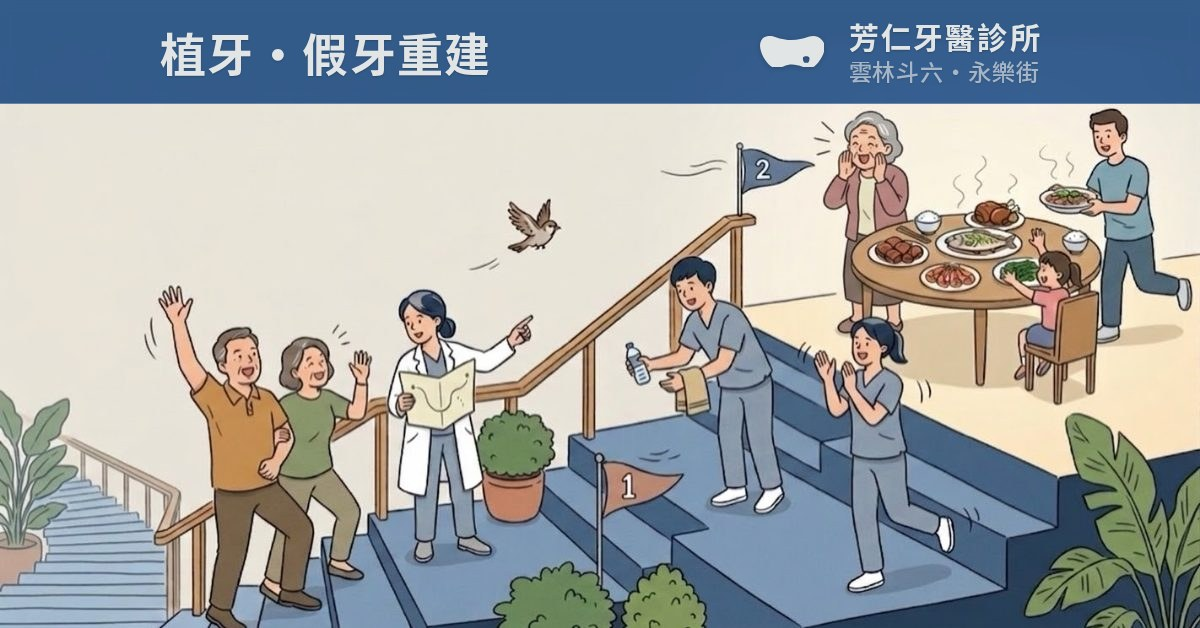
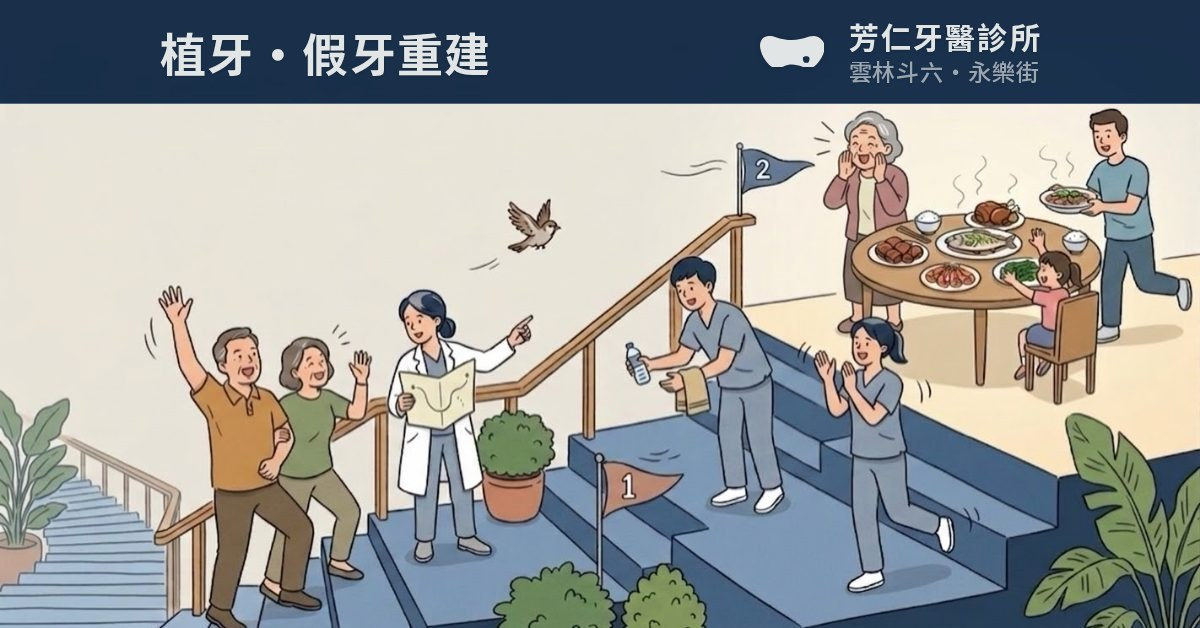
植牙分享圖定案：帶子用深階 #182f4b（不新增顏色、對矯正 ΔE 35.2）；提案頁刪除、推導寫進 /history/prosth-band.html

Changed region(s): [[0.0, 0.0, 1.0, 0.1815]]

diff --git a/history/index.html b/history/index.html
@@ -136,6 +136,7 @@
   <li><a href="/history/perio-laser.html">perio-laser</a><span>〔文章草稿的預覽，不是設計提案〕 - `preview/perio-laser/` — 牙周病治療（清創／水雷射／再生手術）那一篇的文案與 HERO，六輪定案後直接變成正式文章 /posts/perio-laser/（2026-08-16）。文案從別處寫好的原稿整理成站上的樣子：拿掉診所名稱、預約專線、地址與作者備註，齒槽骨與牙根整平術對齊既有用詞，比較表裡「殺菌率高」「大幅減少疼痛」這類絕對療效說法收斂過。圖是「醫師與病人一起拿雷射槍打細菌」，六輪修的都是可讀性：光束改牙周青綠、槍從火箭筒改成精密手機、細菌從「太可愛」到「太兇」再到「兵敗逃竄」、病患退到最後方由助理的盾護著；⚠ 第四輪查出「雷射打在牙齒上像要打破牙齒」的成因是牙面上根本沒有髒東西可打 —— 要它打什麼就要先把那個東西畫出來。⚠ 機器上一直長出 BIOLASE／Waterlase 的品牌字（brochure 當參考時連字一起學走），做過一次局部模糊、最後改用重生成的乾淨版…</span></li>
   <li><a href="/history/night-calibrated.html">night-calibrated</a><span>〔CLAUDE.md〕 - `preview/night-calibrated/` — 全暗版（2026-08-04），內文區也是暗的。留著對照用。 〔PALETTE.md〕 - 對應的預覽頁…</span></li>
   <li><a href="/history/og-home.html">og-home</a><span>〔CLAUDE.md／ILLUSTRATION.md〕 - `preview/og-home/` — 分享 fangren.net 時對方看到的那張卡，當天開、當天定案上線（2026-08-22），成品是 assets/og-home.jpg（產圖 tools/og-home.mjs 留在版控裡）。起因是使用者拿 LINE 的截圖回報「分享首頁時的圖片……顯示的文字內容也不是現在上面的文字」。⚠ 先查清楚：那張卡不是舊的也不是快取，逐字就是 index.html 當時宣告的 og:*。⚠⚠ 我一開始講錯的一件：**LINE 沒有裁圖** —— 從截圖直接量（635×426 ＝ 1.491:1，和原檔 1.512:1 一樣），它照原比例顯示，所以 1.51:1 的圖會長成一張又高又暗的卡；順帶量到卡片實際只有 **212 CSS px** 寬。現況那張平均 L* 21.3、幾乎全黑 48.0%、邊緣密度 16.9%，比 ILLUSTRATION.md 第十一節那張「像鬼屋欸」的失敗版（19.3%）還低。⚠⚠ 走了三輪冤枉路：三格壓在騎樓入口上，使用者建議「把裁切改到寬和現況之間」，但量出來**拉寬反而更糟**（框下緣固定時，騎樓下緣到框下緣在原檔是定值，框愈寬比例尺愈小、那段距離在畫面上就愈短），怎麼裁都還是壓到門面。正解是使用者點出來的：「我為了不要壓到門面，甚至在圖片下另外加深色橫帶」—— 站上 iPad 直放與手機版早就是那樣做的。⚠ 第一版照抄成「照片縮短」被退回（比例從 1.91 變 2.4，屋頂被切），改成**照片維持 1.91 的裁法、帶子疊在下緣蓋掉路面**。⚠ 帶子上緣要淡進來（前 42% smoothstep）—— 站上那條窄帶不必淡入是因為它上面本來就是暗的路面，這張圖的帶子正上方是亮著的騎樓。⚠ 三格的字、字重、字距、分隔線全部在 1200 寬的視窗上量回來（1× 產出 603px vs 站上 603.375px）。文字定案只留詩的第四句，地名移到圖上不再重複。⚠⚠ 同一輪查出一個**已經上線**的缺字 bug：字型子集缺字會靜靜換一種字體（沒有後備就撿系統字），前一天上線的科別分享卡「雲林斗六・永樂街」其實是文泉驛…</span></li>
+  <li><a href="/history/prosth-band.html">prosth-band</a><span>〔CLAUDE.md／ILLUSTRATION.md〕 - `preview/prosth-band/` — 植牙・假牙重建那張分享卡的帶子要多深，當天開、當天定案上線（2026-08-25）。起因是使用者：「我擔心這個帶子顏色和矯正撞到。把矯正定稿叫出來，然後把假牙重建這個做成切換讓我選，要比矯正深的效果。」他的擔心數字上成立，而且文件裡早就記著 —— CLAUDE.md 第九節第 7 條寫著「全站最近的一對是矯正 × 贋復 ΔE 13.3」，這一輪量到套色版對矯正正好是 ΔE 13.7。四格（都是真的產出檔）：Ⓐ 套色 #335b8b（ΔE 13.7・紙色字 5.54）／Ⓑ #2a4c76（20.3・6.93）／Ⓒ #213e60（28.1・8.66）／Ⓓ 深階 #182f4b（35.2・10.70）。⚠⚠ 定案 Ⓓ 的關鍵不是深淺而是**顏色的來源**：Ⓑ／Ⓒ 是內插出來的新色、站上不存在，PALETTE.md 的規則是顏色一律從既有的階拿，所以真正能選的只有 Ⓐ（套色）與 Ⓓ（深階）；兒童牙科 2026-08-24 也是「套色撐不住 → 退深階」，做法一致。順帶定案兩件：**圖往下移 45px**（新工具 drafts/og-shift.mjs，位移是被兩端夾出來的 —— 頭不能被帶子壓到 D ≥ 43、左下三人的鞋不能被切 D ≤ 47），以及 og:description 換成那一頁的 close（34 字，實測剛好兩行不截斷）。⚠ 量鞋子不能用「亮度<80 找最低的墨」—— 階梯的立面就是深藍，整條底邊都會命中；要用顏色分（鞋與褲是暖色的深 R > B+18）…</span></li>
   <li><a href="/history/og-topic-card.html">og-topic-card</a><span>〔CLAUDE.md／ILLUSTRATION.md〕 - `preview/og-topic-card/` — 科別著陸頁分享圖（og:image）的玻璃濃度與地名排法，當天開、當天定案上線（2026-08-22），成品是 assets/og-topic-general.jpg。分享卡在訊息 app 裡只有 250px、標誌單獨出現認不出是誰，所以識別燒進圖裡（卡片標題拿不掉，三家 app 都會顯示）。⚠ 第一版的實心色牌被退回：「忽略了一個很重要的要素 —— 不搶戲、和諧，這也是診所品牌的核心概念之一」，改成頂部的玻璃帶。⚠⚠ 玻璃要用**深階不是套色**、底下還要墊一層墨，這是量出來的（套色 .34 最亮處只有 1.74，白字幾乎看不見）；「最亮處」＝ 天空從玻璃後面透上來那一段，要單獨量，而且只能取兩段文字中間那塊沒有字的玻璃，否則會把紙色的字算進背景裡。淡／中／濃三格是兩個相反的要求在拔河（對比 5.01／5.90／6.83 vs 照片還剩 24%／16%／10%），使用者選**中** —— 最亮處 4.40 過不了 4.5 是他看過數字之後的取捨，不是漏看，因為濃只剩 10% 的照片、已經接近他退回的那塊實心板。地名四格定案「兩行＋街名」。⚠⚠ 最貴的一課：說「照首頁那樣做」的時候要**去把首頁量一次** —— 手機版那一套第一版四項全錯而且錯的都是比例（標誌小 18%、間距只有一半、主名沒加粗、字距 .06 vs .01em），是使用者拿他手機的截圖對照才發現的。⚠ 兩行的排法只有帶街名才成立：地名 8 個字 × 0.774 剛好等於診所名 6 個字，兩行天然等長 justify 才幾乎沒事做；只寫「雲林斗六」四個字要撐 1.366em ＝ 首頁的十八倍，會變成四個孤字。⚠ 提案頁擺的是十二張**真的產出檔**不是用 CSS 重做一次玻璃帶 —— 真實的訊息卡是點陣圖縮下來的，CSS 縮放的向量文字會比實際清楚，等於在騙自己…</span></li>
   <li><a href="/history/ortho-article.html">ortho-article</a><span>〔文章草稿的預覽，不是設計提案〕 - `preview/ortho-article/` — 〈牙齒矯正：年齡、矯正器與第一次諮詢〉那一篇的文案與 HERO，當天開、當天定案上線（2026-08-19），成品是 /posts/orthodontics/（齒顎矯正，站上第九篇）。起點是使用者把診所臉書那則矯正貼文整則貼進來要求「整理成適合網站的文章內容」：emoji／hashtag／私訊 CTA 整組拿掉，✅🔹🔸 的條列換成站上既有的結構，「完美的治療」「最安全且有效」「成功完成矯正夢想」三句承諾性的話拿掉（COPY.md 第三節那道紅線），跨科那一段改寫成主詞是病患的具體好處。臉書原文的事實一件都沒刪。這一篇同時補上齒顎矯正的內部連結 —— 改動前那一科站上零篇文章，是七顆標記裡唯一點下去沒有文章的。⚠ 兩件提出來由使用者定案維持原樣的：金屬 2~3 年／隱形 3~4 年（方向和一般認知相反，照臉書原文留著）、以及 HERO 右下那一格 —— 他睡著了、床頭櫃上放著闔上的牙套盒，讀起來是「睡前取下」，而內文正好寫著「取下的時間裡牙齒不會移動」，是取捨不是漏看。⚠ 圖是另一台畫的（六條規格在 ILLUSTRATION.md 第九節），這一輪只負責接進來：原檔正好 2000×1116 且四邊沒有白框（逐列逐行量標準差確認過），所以 2000 那張直接沿用、不再壓一次…</span></li>
   <li><a href="/history/post-cta.html">post-cta</a><span>〔CLAUDE.md〕 - `preview/post-cta/` — 文章頁的盤點，七項各自可切換（文章收尾區塊、字級抬一階、觸控目標、手機行動條、麵包屑拆兩行、頁尾補 LINE、頁尾命中區）。⚠ **這一頁不是定案上線，是 2026-08-16 收掉的**（使用者：「這個工作可以先關掉了，目前沒有要繼續」）—— 七項一項都沒有套進正式站。留著的推導：收尾區塊要放在 &lt;/main&gt; 外面（不然六篇的「最後更新」會一起跳）、不要重抄看診時間只放連結、整塊吃該篇的科別色、麵包屑那一列要用 display:contents ＋ flex-basis:100% 拆行（只給 &lt;time&gt; 寫會被擠到第三行）、頁尾兩行間距只有 5.6px 所以只能長高不能外擴。⚠ 那份快照停在 2026-08-13 的版面，之後站上改過很多（頁首對齊、HERO 換點陣），要重啟不要直接還原來用…</span></li>

diff --git a/history/prosth-band.html b/history/prosth-band.html
@@ -1,0 +1,66 @@
+<!doctype html>
+<html lang="zh-Hant-TW">
+<head>
+<meta charset="utf-8">
+<meta name="viewport" content="width=device-width, initial-scale=1">
+<meta name="robots" content="noindex, nofollow, noarchive">
+<title>改版紀錄：植牙・假牙重建的分享卡帶子要多深（2026-08-25）</title>
+<style>
+body{max-width:44rem;margin:0 auto;padding:2rem 1.25rem 4rem;background:#e2e5e6;color:#2a2c27;
+ font-family:"Noto Sans TC","PingFang TC",system-ui,sans-serif;line-height:1.8}
+h1{font-size:1.3rem}h2{font-size:1rem;margin-top:2rem}
+table{border-collapse:collapse;width:100%;font-size:.9rem;margin:.6rem 0}
+th,td{border-bottom:1px solid #c9cbc5;padding:.35rem .4rem;text-align:left}
+th{color:#5c5f57;font-weight:500}code{font-size:.88em}
+p,li{font-size:.95rem}
+</style>
+</head>
+<body>
+<h1>植牙・假牙重建的分享卡：帶子要多深</h1>
+<p>2026-08-25 當天開、當天定案。提案頁 <code>preview/prosth-band/</code> 已刪除，
+完整的一頁可以還原：<code>git show a89e86f:preview/prosth-band/index.html</code></p>
+
+<h2>起因</h2>
+<p>使用者看過套色版之後：「<strong>我擔心這個帶子顏色和矯正撞到。把矯正定稿叫出來，
+然後把假牙重建這個做成切換讓我選，要比矯正深的效果。</strong>」</p>
+<p>他的擔心數字上成立，而且文件裡早就記著：CLAUDE.md 第九節第 7 條寫著
+「全站最近的一對是<strong>矯正 × 贋復</strong> ΔE 13.3（填色）／10.5（深階）」——
+這一輪量到套色版的帶子對矯正是 <strong>ΔE 13.7</strong>，就是那一對。</p>
+
+<h2>四格（都是真的產出檔，不是 CSS 疊的）</h2>
+<table>
+<tr><th>格</th><th>目標色</th><th>帶子實際落在</th><th>L*</th><th>比矯正深 ΔL*</th><th>ΔE</th><th>紙色字</th></tr>
+<tr><td>矯正（對照）</td><td>#4478b5</td><td>rgb(68,120,180)</td><td>49.4</td><td>—</td><td>—</td><td>3.61</td></tr>
+<tr><td>Ⓐ 現況</td><td>#335b8b 套色</td><td>rgb(50,91,137)</td><td>37.8</td><td>11.7</td><td>13.7</td><td>5.54</td></tr>
+<tr><td>Ⓑ 深一階</td><td>#2a4c76 <em>新色</em></td><td>rgb(43,76,117)</td><td>31.7</td><td>17.7</td><td>20.3</td><td>6.93</td></tr>
+<tr><td>Ⓒ 再深</td><td>#213e60 <em>新色</em></td><td>rgb(33,62,94)</td><td>25.5</td><td>24.0</td><td>28.1</td><td>8.66</td></tr>
+<tr><td><strong>Ⓓ 深階（定案）</strong></td><td>#182f4b 深階</td><td>rgb(26,47,74)</td><td>19.0</td><td><strong>30.4</strong></td><td><strong>35.2</strong></td><td>10.70</td></tr>
+</table>
+
+<h2>為什麼是 Ⓓ</h2>
+<ul>
+<li><strong>Ⓑ／Ⓒ 是內插出來的新色，站上不存在</strong>。PALETTE.md 的規則是顏色一律從既有的階拿，
+所以真正能選的只有 Ⓐ（套色）與 Ⓓ（深階）。</li>
+<li>Ⓐ 就是使用者擔心的那一格（ΔE 13.7）。</li>
+<li>Ⓓ 是站上白底字用的那一階，<strong>不是新色</strong>；兒童牙科 2026-08-24 也是
+「套色撐不住 → 退深階」，做法一致。</li>
+<li>代價：帶子比自己頁面上那顆標籤深一階。兒牙已經接受過同樣的代價。</li>
+</ul>
+
+<h2>做法（七科通用）</h2>
+<p>補償色 <code>M = ((目標色 − 0.18×墨) ÷ 0.82) × 255 ÷ 頂 17% 那面牆</code>，
+牆的實測中位色是 rgb(233,229,217)，所以 Ⓓ 的補償色是 <code>#163561</code>：</p>
+<pre><code>node drafts/og-shift.mjs drafts/og-topic-prosth-src.jpg prosth --shift 45
+node tools/og-plate.mjs prosth --blend multiply --tintcolor '#163561' \
+  --ink 0.18 --blur 6 --loc full --locpos stack</code></pre>
+
+<h2>順帶定案的兩件</h2>
+<ul>
+<li><strong>圖往下移 45px</strong>（新工具 <code>drafts/og-shift.mjs</code>）：位移是被兩端夾出來的 ——
+頭不能被帶子壓到 → D ≥ 43；左下三人的鞋不能被切 → D ≤ 47。</li>
+<li><strong>og:description 換成那一頁的 <code>close</code></strong>：
+「整理好，吃得順、用得久；部定專科醫師做過全口評估，幫你安排治療計畫。」
+34 字，實測在卡片上剛好兩行、不截斷。破折號改成全形分號（同矯正那張）。</li>
+</ul>
+</body>
+</html>
